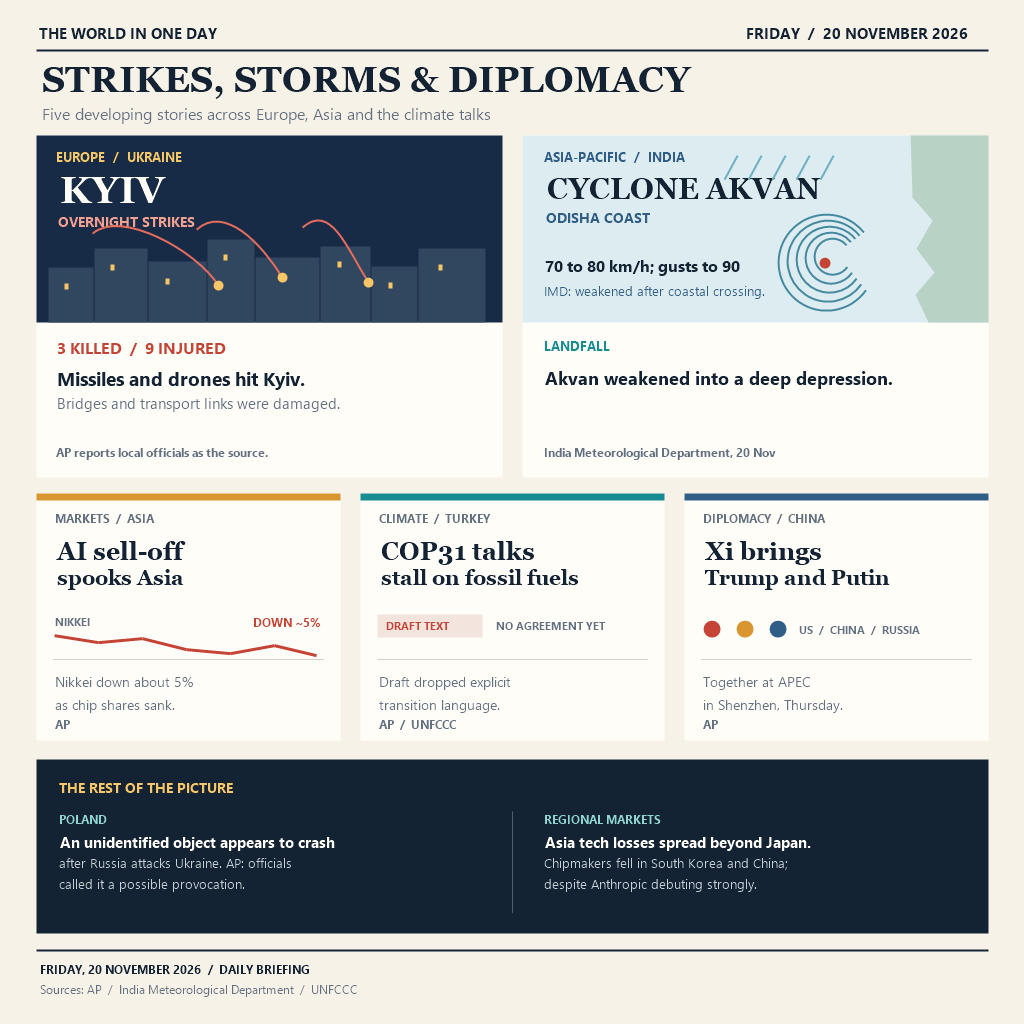
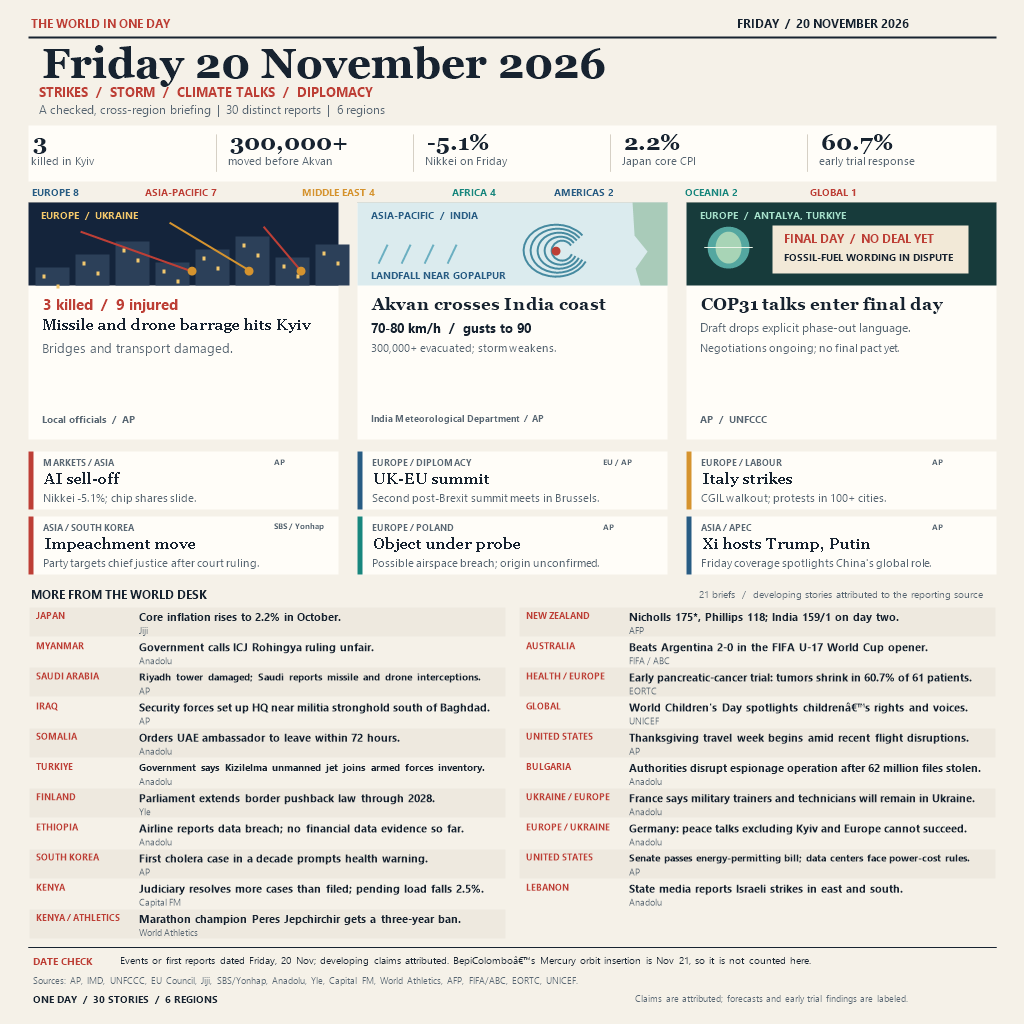
Expand Friday world news briefing to 30 reports

diff --git a/README.md b/README.md
@@ -1,10 +1,10 @@
-# 20 November: Three Stories, One World
+# 20 November: 30 Reports, One World
 
-A single image of three consequential world-news stories reported on 20 November 2026.
+A single-page illustrated briefing covering 30 distinct world-news reports across six regions on Friday, 20 November 2026. Stories are attributed, and developing claims and date-sensitive details are labeled.
 
-[![make.fun · news-image-20261120](https://make.fun/badge/news-image-20261120.svg)](https://make.fun/bounty/news-image-20261120?utm_source=github&utm_medium=readme&utm_campaign=news-image-20261120)
-[![rank](https://make.fun/badge/news-image-20261120/chheoun/makefun-news-image-20261120/rank.svg)](https://make.fun/bounty/news-image-20261120/leaderboard?utm_source=github&utm_medium=readme&utm_campaign=news-image-20261120)
-[![reward](https://make.fun/badge/news-image-20261120/chheoun/makefun-news-image-20261120/reward.svg)](https://make.fun/bounty/news-image-20261120?utm_source=github&utm_medium=readme&utm_campaign=news-image-20261120)
+[![make.fun badge](https://make.fun/badge/news-image-20261120.svg)](https://make.fun/bounty/news-image-20261120)
+[![rank](https://make.fun/badge/news-image-20261120/chheoun/makefun-news-image-20261120/rank.svg)](https://make.fun/bounty/news-image-20261120/leaderboard)
+[![reward](https://make.fun/badge/news-image-20261120/chheoun/makefun-news-image-20261120/reward.svg)](https://make.fun/bounty/news-image-20261120)
 
 ## Run
 
